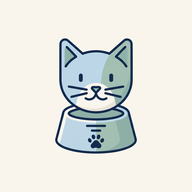
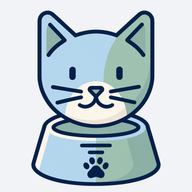
Refine cat portraits and add appearance selection

diff --git a/app.js b/app.js
@@ -58,15 +58,21 @@ document.getElementById('theme-toggle').addEventListener('click', async event =>
   }
 });
 const palette = ['blue', 'green', 'rose', 'amber', 'purple', 'teal'];
-const newCat = (id, color = 'blue') => ({ id, color, name: '', weight: '', ideal: '', factor: '1', food: '', calories: '', automatic: false, portion: '' });
+const catTypes = [
+  ['tabby','Tekir','Brown tabby'], ['ginger','Sarman','Ginger'], ['tuxedo','Smokin','Tuxedo'], ['calico','Üç renkli','Calico'],
+  ['gray','Gri','Gray'], ['white','Beyaz','White'], ['siamese','Siyam','Siamese'], ['black','Siyah','Black'],
+  ['silver','Gümüş tekir','Silver tabby'], ['tortie','Bağa','Tortoiseshell'], ['ragdoll','Ragdoll','Ragdoll'], ['bicolor','Sarman beyaz','Ginger & white']
+];
+const newCat = (id, color = 'blue', appearance = 'tabby') => ({ id, color, appearance, name: '', weight: '', ideal: '', factor: '1', food: '', calories: '', automatic: false, portion: '' });
 const storedCats = Array.isArray(saved.cats) ? saved.cats.filter(cat => cat && typeof cat === 'object') : [];
 let cats = (Array.isArray(saved.cats) ? storedCats : [newCat('cat1')]).map((stored, index) => {
-  const cat = newCat(`cat${index + 1}`, palette[index % palette.length]);
+  const cat = newCat(`cat${index + 1}`, palette[index % palette.length], catTypes[index % catTypes.length][0]);
   for (const key of Object.keys(cat)) {
     if (key === 'id') continue;
     const limit = key === 'food' ? 200 : key === 'name' ? 60 : 12;
     if (key === 'automatic' ? typeof stored[key] === 'boolean' : typeof stored[key] === 'string' && stored[key].length <= limit) cat[key] = stored[key];
   }
+  if (!catTypes.some(type => type[0] === cat.appearance)) cat.appearance = catTypes[index % catTypes.length][0];
   if (!palette.includes(cat.color)) cat.color = palette[index % palette.length];
   if (!['0.8', '1', '1.2', '1.4', '1.8', '2', '2.5'].includes(cat.factor)) cat.factor = '1';
   return cat;
@@ -109,7 +115,7 @@ function translatePage() {
   document.getElementById('copyright').textContent = `© ${new Date().getFullYear()} Vivid Creative Works · ${language === 'en' ? 'An open-source hobby project.' : 'Açık kaynak bir hobi projesi.'}`;
   setTheme(document.documentElement.dataset.theme);
   for (const [id, text] of [['delete-question', 'Bu kedi profilini kaldırmak ister misin?'], ['delete-no', 'Hayır'], ['delete-yes', 'Evet']]) document.getElementById(id).textContent = t(text);
-  document.getElementById('cat-actions-hint').textContent = language === 'en' ? 'Choose a cat profile. Use the button below the form to remove the selected profile. The first profile is protected.' : 'Kedi profilini seçin. Seçili profili kaldırmak için formun altındaki butonu kullanın. İlk profil korunur.';
+  document.getElementById('cat-actions-hint').textContent = language === 'en' ? 'Choose a profile; tap the selected cat again to change its appearance. Remove profiles using the button below the form. The first profile is protected.' : 'Profil seçin; görünümünü değiştirmek için seçili kediye tekrar dokunun. Profili formun altından kaldırabilirsiniz. İlk profil korunur.';
   document.getElementById('remove-cat').textContent = language === 'en' ? 'Remove cat profile' : 'Kedi profilini kaldır';
   document.getElementById('cats').setAttribute('aria-label', language === 'en' ? 'Cat feeding settings' : 'Kedi beslenme ayarları');
   const walker = document.createTreeWalker(document.getElementById('cats'), NodeFilter.SHOW_TEXT);
@@ -122,19 +128,9 @@ const format = (value, digits = 1) => value.toLocaleString(language === 'en' ? '
 const escapeHtml = value => String(value).replace(/[&<>"']/g, character => ({ '&': '&amp;', '<': '&lt;', '>': '&gt;', '"': '&quot;', "'": '&#39;' }[character]));
 const factors = [['0.8', '0,8× · Kilo verme'], ['1', '1× · Kiloyu koruma'], ['1.2', '1,2× · Kısır yetişkin'], ['1.4', '1,4× · Kısır olmayan yetişkin'], ['1.8', '1,8× · Kilo alma'], ['2', '2× · Yavru, 4–12 ay'], ['2.5', '2,5× · Yavru, 0–4 ay']];
 const infoIcon = '<svg viewBox="0 0 24 24" fill="none" stroke="currentColor" stroke-width="1.7" stroke-linecap="round" aria-hidden="true"><circle cx="12" cy="12" r="9"/><path d="M12 11v6m0-10v.1"/></svg>';
-// Mask the original artwork so its baked checkerboard never appears in either theme.
-const catPortraits = [
-  [1335, 150, 445, 'M1362 193Q1380 158 1412 181L1480 220Q1556 189 1625 222L1689 183Q1739 157 1750 214Q1759 270 1735 319Q1785 399 1738 474Q1684 556 1557 559Q1426 558 1374 479Q1328 408 1369 328Q1343 250 1362 193Z'],
-  [140, 150, 425, 'M175 181Q179 154 207 171Q240 190 280 234Q347 208 422 235L486 177Q519 148 530 182Q541 224 523 316Q565 404 532 471Q489 553 360 557Q230 561 182 492Q141 437 161 370L181 316Q162 224 175 181Z'],
-  [745, 145, 430, 'M775 185Q782 143 812 163Q850 190 902 244Q954 228 1011 244L1081 176Q1119 140 1134 178Q1149 222 1130 337Q1170 411 1133 476Q1083 559 959 561Q831 558 784 487Q744 425 774 349Q761 241 775 185Z'],
-  [1335, 725, 450, 'M1353 761Q1363 732 1387 742L1483 824Q1556 809 1628 829L1728 749Q1764 719 1772 755Q1781 803 1744 923Q1776 1028 1714 1092Q1656 1147 1556 1150Q1447 1148 1397 1098Q1354 1057 1356 1003Q1354 961 1372 940Q1339 852 1353 761Z'],
-  [130, 755, 440, 'M148 837Q169 797 206 792Q232 779 266 806Q346 776 426 805Q455 772 480 790Q515 797 544 833Q555 851 542 867L528 879Q571 957 549 1029Q520 1134 351 1140Q191 1140 154 1048Q125 975 162 881Q136 868 148 837Z'],
-  [745, 730, 430, 'M766 773Q780 730 809 747Q851 777 902 827Q951 812 1007 828L1090 753Q1124 723 1138 766Q1152 811 1133 921Q1175 1004 1134 1069Q1081 1144 958 1147Q825 1145 782 1077Q741 1010 768 934Q754 823 766 773Z']
-];
 function catIcon(cat) {
-  const [x, y, size, outline] = catPortraits[palette.indexOf(cat.color)];
-  const clip = `portrait-${cat.id}`;
-  return `<svg viewBox="${x} ${y} ${size} ${size}" aria-hidden="true"><defs><clipPath id="${clip}"><path d="${outline}" transform="translate(${x + size / 2} ${y + size / 2}) scale(0.96) translate(${-x - size / 2} ${-y - size / 2})"/></clipPath></defs><image href="cat-portraits.jpg" width="1907" height="1280" preserveAspectRatio="none" clip-path="url(#${clip})"/></svg>`;
+  const index = Math.max(0, catTypes.findIndex(type => type[0] === cat.appearance));
+  return `<svg viewBox="${index % 4 * 320} ${[150,480,800][Math.floor(index / 4)]} 320 320" aria-hidden="true"><image href="cat-portraits.png?v=3" width="1280" height="1280"/></svg>`;
 }
 function info(label, content) {
   return `<details class="field-info"><summary aria-label="${escapeHtml(t(label))} — ${t('Bilgi')}">${infoIcon}</summary><div class="info-content">${content}</div></details>`;
@@ -169,7 +165,7 @@ function renderTabs() {
   const rail = document.getElementById('cat-tabs');
   const previousScroll = rail.scrollLeft;
   rail.parentElement.classList.toggle('multiple', cats.length > 1);
-  document.getElementById('cat-tabs').innerHTML = cats.map((cat, index) => `<div class="profile-tab" role="presentation"><button type="button" role="tab" id="tab-${cat.id}" aria-controls="${cat.id}" aria-selected="${cat.id === activeId}" tabindex="${cat.id === activeId ? 0 : -1}" data-cat="${cat.id}" data-color="${cat.color}" aria-label="${escapeHtml(catName(cat, index))}" title="${escapeHtml(catName(cat, index))}" aria-describedby="cat-actions-hint" aria-keyshortcuts="Delete Shift+F10">${catIcon(cat)}${cats.length > 1 ? `<span class="cat-number" aria-hidden="true">${index + 1}</span>` : ''}</button><span class="profile-name" aria-hidden="true" title="${escapeHtml(catName(cat, index))}">${escapeHtml(catName(cat, index))}</span></div>`).join('');
+  document.getElementById('cat-tabs').innerHTML = cats.map((cat, index) => `<div class="profile-tab" role="presentation"><button type="button" role="tab" id="tab-${cat.id}" aria-controls="${cat.id}" aria-selected="${cat.id === activeId}" tabindex="${cat.id === activeId ? 0 : -1}" data-cat="${cat.id}" data-color="${cat.color}" aria-label="${escapeHtml(catName(cat, index))}" title="${escapeHtml(catName(cat, index))}" aria-describedby="cat-actions-hint" aria-keyshortcuts="Delete Shift+F10">${catIcon(cat)}</button><span class="profile-name" aria-hidden="true" title="${escapeHtml(catName(cat, index))}">${escapeHtml(catName(cat, index))}</span></div>`).join('');
   document.getElementById('cat-tabs').setAttribute('aria-label', language === 'en' ? 'Cats' : 'Kediler');
   document.getElementById('add-cat').setAttribute('aria-label', t('Kedi ekle'));
   document.getElementById('add-cat').title = t('Kedi ekle');
@@ -308,6 +304,30 @@ function requestRemoval(id) {
   deleteDialog.showModal();
   haptic(20);
 }
+const appearanceDialog = document.getElementById('appearance-dialog');
+function openAppearance() {
+  const cat = cats.find(cat => cat.id === activeId);
+  if (!cat || appearanceDialog.open) return;
+  document.getElementById('appearance-title').textContent = language === 'en' ? 'Cat appearance' : 'Kedi görünümü';
+  document.getElementById('appearance-close').textContent = language === 'en' ? 'Done' : 'Tamam';
+  appearanceDialog.dataset.color = cat.color;
+  document.getElementById('appearance-options').innerHTML = catTypes.map(type => `<button type="button" data-appearance="${type[0]}" aria-pressed="${cat.appearance === type[0]}">${catIcon({appearance:type[0]})}<span>${escapeHtml(type[language === 'en' ? 2 : 1])}</span></button>`).join('');
+  appearanceDialog.showModal();
+  appearanceDialog.querySelector('[aria-pressed="true"]').focus();
+}
+document.getElementById('appearance-options').addEventListener('click', async event => {
+  const option = event.target.closest('[data-appearance]');
+  const cat = cats.find(cat => cat.id === activeId);
+  if (!option || !cat) return;
+  cat.appearance = option.dataset.appearance;
+  saveSettings(); haptic(); appearanceDialog.close();
+  const tab = document.getElementById(`tab-${cat.id}`);
+  const old = tab.querySelector('svg');
+  if (!reducedMotion.matches) await old.animate({opacity:[1,0]}, {duration:100,fill:'forwards'}).finished.catch(() => {});
+  if (!tab.isConnected) return;
+  old.remove(); tab.insertAdjacentHTML('afterbegin', catIcon(cat));
+  if (!reducedMotion.matches) tab.querySelector('svg').animate({opacity:[0,1]}, {duration:180,easing:'ease-out'});
+});
 const catTabs = document.getElementById('cat-tabs');
 catTabs.addEventListener('keydown', event => {
   if (event.key !== 'Delete' && !(event.shiftKey && event.key === 'F10')) return;
@@ -335,6 +355,7 @@ deleteDialog.querySelector('form').addEventListener('submit', event => {
   deleteSuccessTimer = setTimeout(() => deleteDialog.close(), 900);
 });
 deleteDialog.addEventListener('close', () => {
+  if (deleteDialog.open) return;
   clearTimeout(deleteSuccessTimer);
   pendingDeleteId = null;
   if (!document.getElementById('delete-success').hidden) {
@@ -344,7 +365,9 @@ deleteDialog.addEventListener('close', () => {
 
 document.getElementById('cat-tabs').addEventListener('click', event => {
   const tab = event.target.closest('[data-cat]');
-  if (tab) { if (tab.dataset.cat !== activeId) haptic(); activateCat(tab.dataset.cat); document.getElementById(`tab-${activeId}`).focus({ preventScroll: true }); }
+  if (!tab) return;
+  if (tab.dataset.cat === activeId) { openAppearance(); return; }
+  haptic(); activateCat(tab.dataset.cat); tab.focus({ preventScroll: true });
 });
 document.getElementById('cat-tabs').addEventListener('keydown', event => {
   if (!['ArrowLeft', 'ArrowRight', 'Home', 'End'].includes(event.key)) return;
@@ -357,7 +380,7 @@ document.getElementById('cat-tabs').addEventListener('keydown', event => {
 function addCat() {
   haptic(12);
   const color = palette.find(color => !cats.some(cat => cat.color === color)) || palette[cats.length % palette.length];
-  const cat = newCat(`cat${nextCatId++}`, color);
+  const cat = newCat(`cat${nextCatId++}`, color, catTypes[cats.length % catTypes.length][0]);
   cats.push(cat); activeId = cat.id;
   render(); saveSettings();
   if (!reducedMotion.matches) {

diff --git a/style.css b/style.css
@@ -108,7 +108,6 @@ option { color: var(--ink); background: var(--paper); }
 .cat-navigation button { display: flex; align-items: center; justify-content: center; gap: 4px; font: inherit; font-size: 14px; min-height: 44px; border: 1px solid var(--line); border-radius: 10px; background: var(--paper); color: var(--ink); padding: 8px 12px; cursor: pointer; }
 #cat-tabs button { flex-shrink: 0; width: 64px; height: 64px; padding: 4px; gap: 2px; border-radius: 50%; color: var(--accent); background: var(--tint); border-color: transparent; }
 #cat-tabs svg { width: 44px; height: 44px; }
-#cat-tabs .cat-number { position: absolute; right: 2px; bottom: 2px; min-width: 20px; height: 20px; padding: 0 4px; display: grid; place-items: center; border-radius: 10px; background: var(--paper); color: var(--accent); font-size: 11px; font-weight: 600; line-height: 1; white-space: nowrap; }
 #cat-tabs svg { color: var(--icon-ink); }
 #cat-tabs [aria-selected=true] { border-color: var(--accent); box-shadow: inset 0 0 0 1px var(--accent); }
 #add-cat { flex-shrink: 0; width: 52px; height: 52px; padding: 0; border-radius: 50%; }
@@ -132,8 +131,8 @@ footer { margin-top: 32px; text-align: center; color: var(--muted); font-size: 1
 #delete-success { text-align: center; }
 #delete-success > svg { width: 40px; height: 40px; color: var(--ink); }
 #delete-success-message { margin: 12px 0 24px; }
-#delete-dialog { width: min(360px, calc(100% - 32px)); padding: 24px; border: 1px solid var(--line); border-radius: 16px; background: var(--paper); color: var(--ink); }
-#delete-dialog::backdrop { background: #0008; }
+:is(#delete-dialog, #appearance-dialog) { width: min(360px, calc(100% - 32px)); padding: 24px; border: 1px solid var(--line); border-radius: 16px; background: var(--paper); color: var(--ink); }
+:is(#delete-dialog, #appearance-dialog)::backdrop { background: #0008; }
 #delete-question { margin: 0 0 24px; }
 .dialog-actions { display: flex; justify-content: center; gap: 12px; }
 .dialog-actions button { min-width: 88px; min-height: 44px; padding: 8px 16px; font: inherit; border: 1px solid var(--border); border-radius: 10px; background: var(--paper); color: var(--ink); cursor: pointer; }
@@ -162,13 +161,13 @@ footer { margin-top: 32px; text-align: center; color: var(--muted); font-size: 1
   ::view-transition-new(theme-icon) { animation: icon-in 380ms var(--ease-out) both; }
   .field-info[open] .info-content { animation: surface-in 200ms var(--ease-out) both; }
   #delete-success:not([hidden]) { animation: surface-in 120ms var(--ease-out) both; }
-  #delete-dialog { opacity: 0; transform: translateY(6px) scale(.98); transition: opacity 100ms ease, transform 120ms var(--ease-out), display 120ms allow-discrete, overlay 120ms allow-discrete; }
-  #delete-dialog[open] { opacity: 1; transform: translateY(0) scale(1); }
-  #delete-dialog::backdrop { background: #0000; transition: background-color 120ms ease, display 120ms allow-discrete, overlay 120ms allow-discrete; }
-  #delete-dialog[open]::backdrop { background: #0008; }
+  :is(#delete-dialog, #appearance-dialog) { opacity: 0; transform: translateY(6px) scale(.98); transition: opacity 100ms ease, transform 120ms var(--ease-out), display 120ms allow-discrete, overlay 120ms allow-discrete; }
+  :is(#delete-dialog, #appearance-dialog)[open] { opacity: 1; transform: translateY(0) scale(1); }
+  :is(#delete-dialog, #appearance-dialog)::backdrop { background: #0000; transition: background-color 120ms ease, display 120ms allow-discrete, overlay 120ms allow-discrete; }
+  :is(#delete-dialog, #appearance-dialog)[open]::backdrop { background: #0008; }
   @starting-style {
-    #delete-dialog[open] { opacity: 0; transform: translateY(6px) scale(.98); }
-    #delete-dialog[open]::backdrop { background: #0000; }
+    :is(#delete-dialog, #appearance-dialog)[open] { opacity: 0; transform: translateY(6px) scale(.98); }
+    :is(#delete-dialog, #appearance-dialog)[open]::backdrop { background: #0000; }
   }
 }
 @media (prefers-reduced-motion: reduce) {
@@ -189,3 +188,12 @@ footer { margin-top: 32px; text-align: center; color: var(--muted); font-size: 1
 .cat-navigation #add-cat { align-self: flex-start; margin-top: 9px; }
 .weight-reference { margin: 5px 0 0; color: var(--muted); font-size: 12px; line-height: 1.5; }
 .info-content a { color: inherit; text-underline-offset: 3px; }
+
+#appearance-dialog { width: min(420px, calc(100% - 32px)); max-height: calc(100dvh - 32px); overflow-y: auto; }
+#appearance-title { margin: 0 0 20px; font-size: 18px; font-weight: 600; text-align: center; }
+#appearance-options { display: grid; grid-template-columns: repeat(3, minmax(0, 1fr)); gap: 8px; margin-bottom: 20px; }
+#appearance-options button { display: grid; justify-items: center; gap: 6px; min-height: 86px; padding: 8px 4px; font: inherit; font-size: 12px; color: var(--ink); background: var(--paper); border: 1px solid var(--line); border-radius: 12px; cursor: pointer; }
+#appearance-options svg { width: 48px; height: 48px; }
+#appearance-options [aria-pressed=true] { border-color: var(--accent); background: var(--tint); }
+#appearance-options button:focus-visible { outline: 2px solid var(--ring); outline-offset: 2px; }
+@media (prefers-reduced-motion: no-preference) { .profile-tab { transition: opacity 180ms ease; } }

diff --git a/index.html b/index.html
@@ -7,17 +7,17 @@
   <meta name="apple-mobile-web-app-capable" content="yes">
   <meta name="apple-mobile-web-app-title" content="Pati Gram">
   <link rel="manifest" href="manifest.webmanifest">
-  <link rel="icon" href="favicon.png?v=2" type="image/png" sizes="32x32">
-  <link rel="apple-touch-icon" href="apple-touch-icon.png?v=2" sizes="180x180">
+  <link rel="icon" href="favicon.png?v=3" type="image/png" sizes="32x32">
+  <link rel="apple-touch-icon" href="apple-touch-icon.png?v=3" sizes="180x180">
   <meta property="og:title" content="Pati Gram">
   <meta property="og:description" content="Kediniz için günlük mama miktarı ve RER hesaplama.">
   <meta property="og:image" content="https://itsregnalt.github.io/Pati_Gram/icon-512.png">
   <meta property="og:url" content="https://itsregnalt.github.io/Pati_Gram/">
   <meta property="og:type" content="website">
   <title>Pati Gram · Kedi Mama Hesabı</title>
-  <link rel="stylesheet" href="style.css">
+  <link rel="stylesheet" href="style.css?v=3">
   <script defer src="calculator.js"></script>
-  <script defer src="app.js?v=portraits-2"></script>
+  <script defer src="app.js?v=appearance-3"></script>
 </head>
 <body>
   <main>
@@ -38,6 +38,11 @@
     <section class="cats" id="cats" aria-label="Kedilerin beslenme ayarları"></section>
     <button type="button" class="delete-cat" id="remove-cat" hidden>Kedi profilini kaldır</button>
     <footer><p id="save-status" class="hint save-status" role="status"></p><p id="copyright"></p></footer>
+    <dialog id="appearance-dialog" aria-labelledby="appearance-title">
+      <h2 id="appearance-title">Kedi görünümü</h2>
+      <div id="appearance-options"></div>
+      <form method="dialog" class="dialog-actions"><button id="appearance-close">Tamam</button></form>
+    </dialog>
     <dialog id="delete-dialog" aria-labelledby="delete-question">
       <form method="dialog">
         <div id="delete-confirm">
